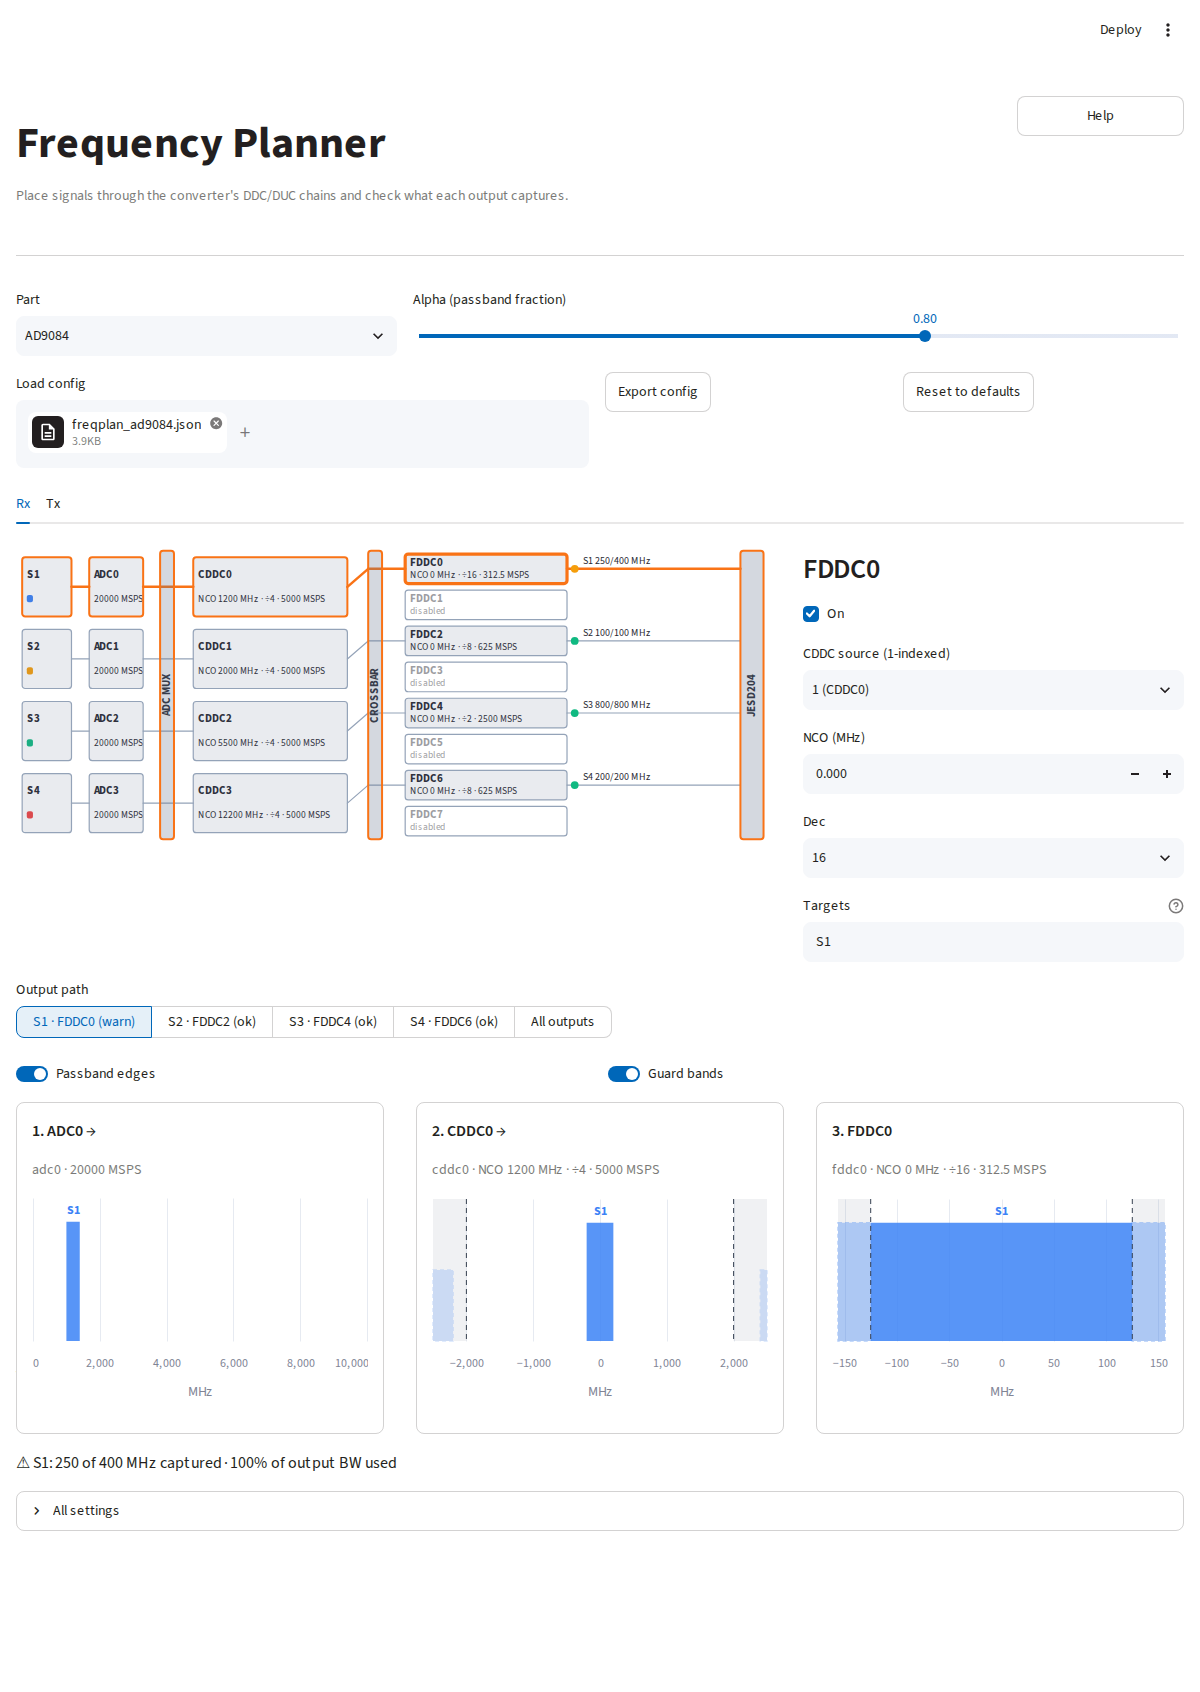
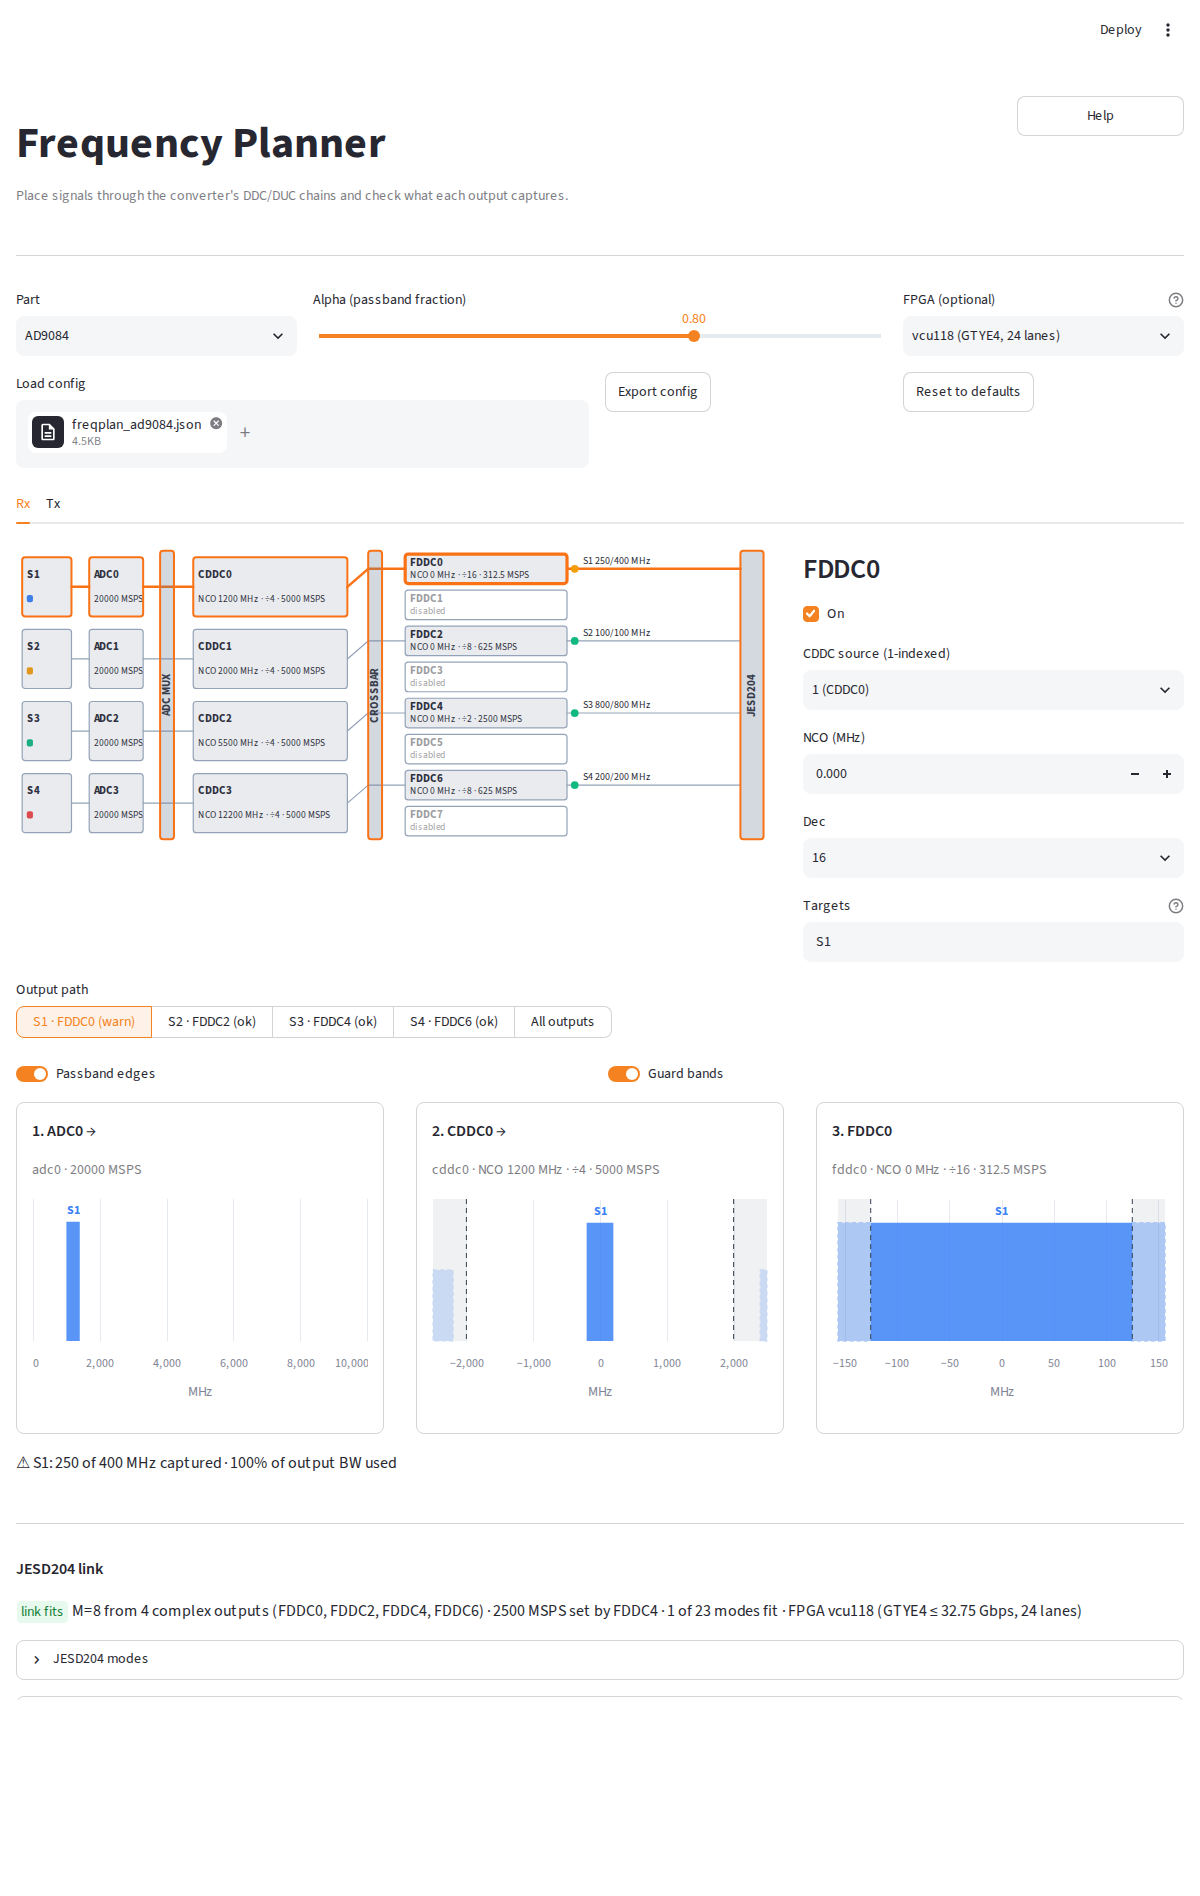
docs: document the frequency planner JESD204 link check
Describe the FPGA picker, the link summary and modes table, and the jesd
config section; add a JESD204 screenshot, recapture the planner screenshots
and extend the AD9084 example to choose and export a mode per link.

diff --git a/examples/freqplan_ad9084.py b/examples/freqplan_ad9084.py
@@ -6,8 +6,9 @@ Starts from the planner's default four-signal Rx plan, then:
   CDDC3 at it, and
 * raises FDDC0's decimation so only part of S1 fits its passband.
 
-It prints the verdict for every output and writes the plan to
-``freqplan_ad9084.json`` next to this script; load that file in the
+It prints the verdict for every output, sizes each JESD204 link (M and the
+link sample rate) and picks the first mode that fits a VCU118, and writes
+the plan and those modes to ``freqplan_ad9084.json`` next to this script; load that file in the
 Frequency Planner page (``jiftools``) to see the same plan.
 """
 
@@ -22,6 +23,12 @@ from adijif.freqplan import (
     dumps,
     evaluate_dac,
     evaluate_output,
+    fpga_from_devkit,
+    jesd_to_dict,
+    link_summary,
+    rx_link,
+    solve_link,
+    tx_link,
 )
 
 rx = default_rx_plan()
@@ -57,8 +64,21 @@ for name, stage in tx_result.stages.items():
         print(f"  {name:6s} {verdict.status:5s}  "
               + " | ".join(verdict.messages))
 
+# JESD204: M is two per complex output; the link runs at the fastest output.
+fpga = fpga_from_devkit("vcu118")
+chosen = {}
+for tab, plan, req in (
+    ("rx", rx, rx_link(rx, rx_result)),
+    ("tx", tx, tx_link(tx, tx_result)),
+):
+    sol = solve_link(plan, req, fpga)
+    print(f"{tab.upper()} JESD204: {link_summary(sol)}")
+    chosen[tab] = sol.fits[0] if sol.fits else None
+    if chosen[tab]:
+        print(f"  chosen: {chosen[tab].label()}")
+
 out = os.path.join(os.path.dirname(os.path.abspath(__file__)),
                    "freqplan_ad9084.json")
 with open(out, "w") as f:
-    f.write(dumps(rx, tx))
+    f.write(dumps(rx, tx, None, jesd_to_dict({"devkit": "vcu118"}, chosen)))
 print(f"Wrote {out}")

diff --git a/doc/source/tools.md b/doc/source/tools.md
@@ -468,8 +468,11 @@ package and uses no solver.
   unwanted energy lands in band, and how much of the output bandwidth is used.
 - **All settings**: a collapsed expander with the rates, signals and full
   stage tables for bulk edits, including DAC routing on Tx.
-- **Export, Load, and Reset**: save the plan and view as JSON, restore it
-  later, or return to the defaults.
+- **JESD204 link**: each tab sizes its link from the plan (M and the link
+  sample rate), lists the part's JESD204 modes that fit with their lane rates,
+  and can check them against an FPGA's transceivers.
+- **Export, Load, and Reset**: save the plan, the chosen JESD204 modes, and
+  the view as JSON, restore it later, or return to the defaults.
 
 ```{figure} _static/imgs/frequencyplanner_rx.png
 :alt: Frequency Planner Rx tab with the datapath diagram and settings panel on top, an output path selector below them, and the three spectra of the selected path with its verdict
@@ -504,9 +507,13 @@ The same alpha applies to Rx and Tx.
 
 ### Usage
 
-#### 1. Pick the part and alpha
+#### 1. Pick the part, alpha and (optionally) an FPGA
 
-Choose the part and set the alpha slider at the top of the page.
+Choose the part and set the alpha slider at the top of the page. The
+**FPGA (optional)** picker beside them is used only by the JESD204 link check
+(step 5): pick a dev kit (`zcu102`, `zc706`, `vcu118`, `adsy1100`, `vck190`),
+or **Custom transceiver** to enter a Xilinx transceiver type and lane count.
+Leave it at **None** to check modes against the converter alone.
 
 #### 2. Read the diagram
 
@@ -654,7 +661,49 @@ CDDC/CDUC numbers, as in adijif, so source value 3 is `CDDC2`. An
 out-of-range source value is reported as a bare number with its valid range,
 for example `S1: FDUC0 source 9 is out of range 1 to 4`.
 
-#### 5. All settings
+#### 5. Check the JESD204 link
+
+Under the path spectra each tab has a **JESD204 link** line, recomputed from
+the plan on every change:
+
+- **M** is two converters (I and Q) per complex output. On Rx the outputs are
+  the enabled FDDCs, plus any CDDC that no enabled FDDC uses; on Tx they are
+  the enabled FDUCs, or the enabled CDUCs when no FDUC is used. The default Rx
+  plan's four FDDCs give `M=8`.
+- The **link sample rate** is the fastest output rate, set by the output with
+  the smallest overall decimation (Rx) or the FDUC input rate, DAC rate over
+  CDUC x FDUC interpolation (Tx). Outputs may run at different rates; the
+  converter carries the slower ones on the faster link. The line names the
+  output that sets the rate.
+- The line ends with how many of the part's modes for that M fit, for example
+  `M=8 from 4 complex outputs (FDDC0, FDDC2, FDDC4, FDDC6) · 2500 MSPS set by
+  FDDC4 · 1 of 23 modes fit`, with a green **link fits** or red
+  **no mode fits** badge. Outputs in error (such as an FDDC whose CDDC is
+  disabled) are left off the link and listed under it.
+
+The **JESD204 modes** expander lists every quick configuration mode with that
+M: class (204B or 204C), mode number, L, M, F, S, Np, the lane rate, and why a
+mode does not fit. A mode fits when the converter accepts its lane rate and
+clocks, using the plan's own decimation or interpolation, and, with an FPGA
+picked, when its lane rate is within the transceiver's maximum and L is within
+the FPGA's lanes. Filter by class or Np, or turn off **Only modes that fit** to
+see the rejected ones. Pick a **Mode for export** to save it in the config. A
+chosen mode that stops fitting after a plan or FPGA change falls back to none.
+
+```{figure} _static/imgs/frequencyplanner_jesd.png
+:alt: JESD204 link section of the Tx tab with a vcu118 FPGA picked, showing the link summary and the table of 204B and 204C modes that fit, with lane rates
+:width: 100%
+
+The Tx link of the default plan with a `vcu118` picked: two FDUCs give
+`M=4` at 2500 MSPS, and 11 of the 31 `M=4` modes fit the converter and the
+GTYE4 transceivers.
+```
+
+If no mode has that M (for example eight FDDCs give `M=16`, beyond the
+AD9084 table), the line says there is no single-link mode; dual-link
+configurations are not modelled.
+
+#### 6. All settings
 
 The **All settings** expander, collapsed by default, holds the rates and the
 full tables: the signals, the CDDC and FDDC tables on Rx, and the FDUC and CDUC
@@ -663,10 +712,10 @@ adding or removing signals across all inputs. Edits here and in the block
 panels act on the same plan. If an edit leaves the plan invalid, the tab shows
 the problem in place of the diagram and asks you to fix it here.
 
-#### 6. Export, load, and reset
+#### 7. Export, load, and reset
 
-**Export config** downloads `freqplan.json` containing the plan and the current
-view. **Load config** accepts such a file and rebuilds both tabs, including the selected paths, from it; a file
+**Export config** downloads `freqplan.json` containing the plan, the FPGA
+choice and chosen JESD204 modes, and the current view. **Load config** accepts such a file and rebuilds both tabs, including the selected paths, from it; a file
 with the wrong version, an unsupported part, wrong list lengths, or values
 outside the widget limits is rejected with an error and the current plan is
 left alone. **Reset to defaults** restores the starting plan.
@@ -732,6 +781,13 @@ one), and lists are shown shortened.
       }
     }
   },
+  "jesd": {
+    "fpga": {"devkit": "vcu118"},
+    "rx": {"mode": "59", "jesd_class": "jesd204c", "M": 8, "L": 12,
+           "F": 1, "S": 1, "Np": 12, "HD": 1,
+           "sample_rate_hz": 2500000000.0, "lane_rate_hz": 20625000000.0},
+    "tx": null
+  },
   "view": {
     "rx": {"path": "fddc0", "show_passband": true, "show_alias": true},
     "tx": {"path": "S1@dac0", "show_passband": true, "show_alias": true}
@@ -763,6 +819,12 @@ Notes on the fields:
   feeds.
 - Every per-stage list must have exactly the length the part expects
   (for AD9084: 4 CDDCs, 8 FDDCs, 4 CDUCs, 8 FDUCs); a mismatch is an error.
+- `jesd` is optional; files without it (older exports) load with no FPGA and
+  no chosen modes. `fpga` is `null`, `{"devkit": name}`, or
+  `{"transceiver": type, "lanes": n}`. `rx` and `tx` are each `null` or the
+  chosen mode. Only `mode` and `jesd_class` are read back; the other fields
+  record the mode's parameters and rates at export for use elsewhere and are
+  recomputed on load.
 - `view` stores, per tab, the selected output `path` (a path id such as
   `fddc0`, `S1@dac0`, or `all`) and the `show_passband` and `show_alias`
   toggles. It may be empty. A `path` that no longer exists falls back to the
@@ -809,13 +871,19 @@ Starting from the default plan, the example makes two changes:
   the usable band to ±125 MHz, so only 250 MHz of the 400 MHz S1 fits. The
   `fddc0` verdict changes to a warning.
 
+The script also sizes both JESD204 links against a `vcu118` and saves the
+first mode that fits each in the config's `jesd` section: 204C mode 59
+(L=12, Np=12, 20.625 Gbps) for Rx and 204B mode 48 (L=8, Np=12, 18.75 Gbps)
+for Tx.
+
 ```{figure} _static/imgs/frequencyplanner_example.png
 :alt: Frequency Planner after loading the example config, showing the S1 · FDDC0 path with its partial-capture warning
 :width: 100%
 
 The example config loaded in the page, showing the `S1 · FDDC0 (warn)` path:
 the ADC, CDDC and FDDC spectra with the partial-capture warning for S1 under
-them. Select the `S4 · FDDC6` path to see S4 folded from the second Nyquist
+them. The config's `jesd` section restored the `vcu118` FPGA and the chosen
+Rx and Tx modes, and the JESD204 link line shows the Rx link still fits. Select the `S4 · FDDC6` path to see S4 folded from the second Nyquist
 zone.
 ```
 
@@ -850,6 +918,29 @@ fddc4 ok ['S3: 800 of 800 MHz captured', '40% of output BW used', 'could decimat
 fddc6 ok ['S4: 200 of 200 MHz captured', '40% of output BW used', 'could decimate further']
 ```
 
+The JESD204 link for a plan, from Python:
+
+```python
+from adijif.freqplan import (
+    compute_rx, default_rx_plan, fpga_from_devkit, link_summary, rx_link,
+    solve_link,
+)
+
+rx = default_rx_plan()
+sol = solve_link(rx, rx_link(rx, compute_rx(rx)), fpga_from_devkit("vcu118"))
+print(link_summary(sol))
+for mode in sol.fits:
+    print(mode.label())
+```
+
+```text
+M=8 from 4 complex outputs (FDDC0, FDDC2, FDDC4, FDDC6) · 2500 MSPS set by FDDC4 · 1 of 23 modes fit · FPGA vcu118 (GTYE4 ≤ 32.75 Gbps, 24 lanes)
+204C mode 59 · L=12 Np=12 · 20.625 Gbps
+```
+
+`examples/freqplan_ad9084.py` does the same for both directions and saves the
+chosen modes in the `jesd` section of its config.
+
 ### Out of Scope
 
 The planner is a quick sanity check, not a signal-integrity simulator. It does
@@ -860,7 +951,9 @@ not model:
 - the DAC sinc roll-off.
 
 It also does not generate pyadi-iio scripts (planned for later) or JESD
-profiles and device-tree fragments.
+profiles and device-tree fragments. The JESD204 link check covers single-link
+modes only, and checks lane rate and lane count, not the FPGA's transceiver
+PLLs or the clock tree; use the System Configurator for a full clock solve.
 
 ---
 
